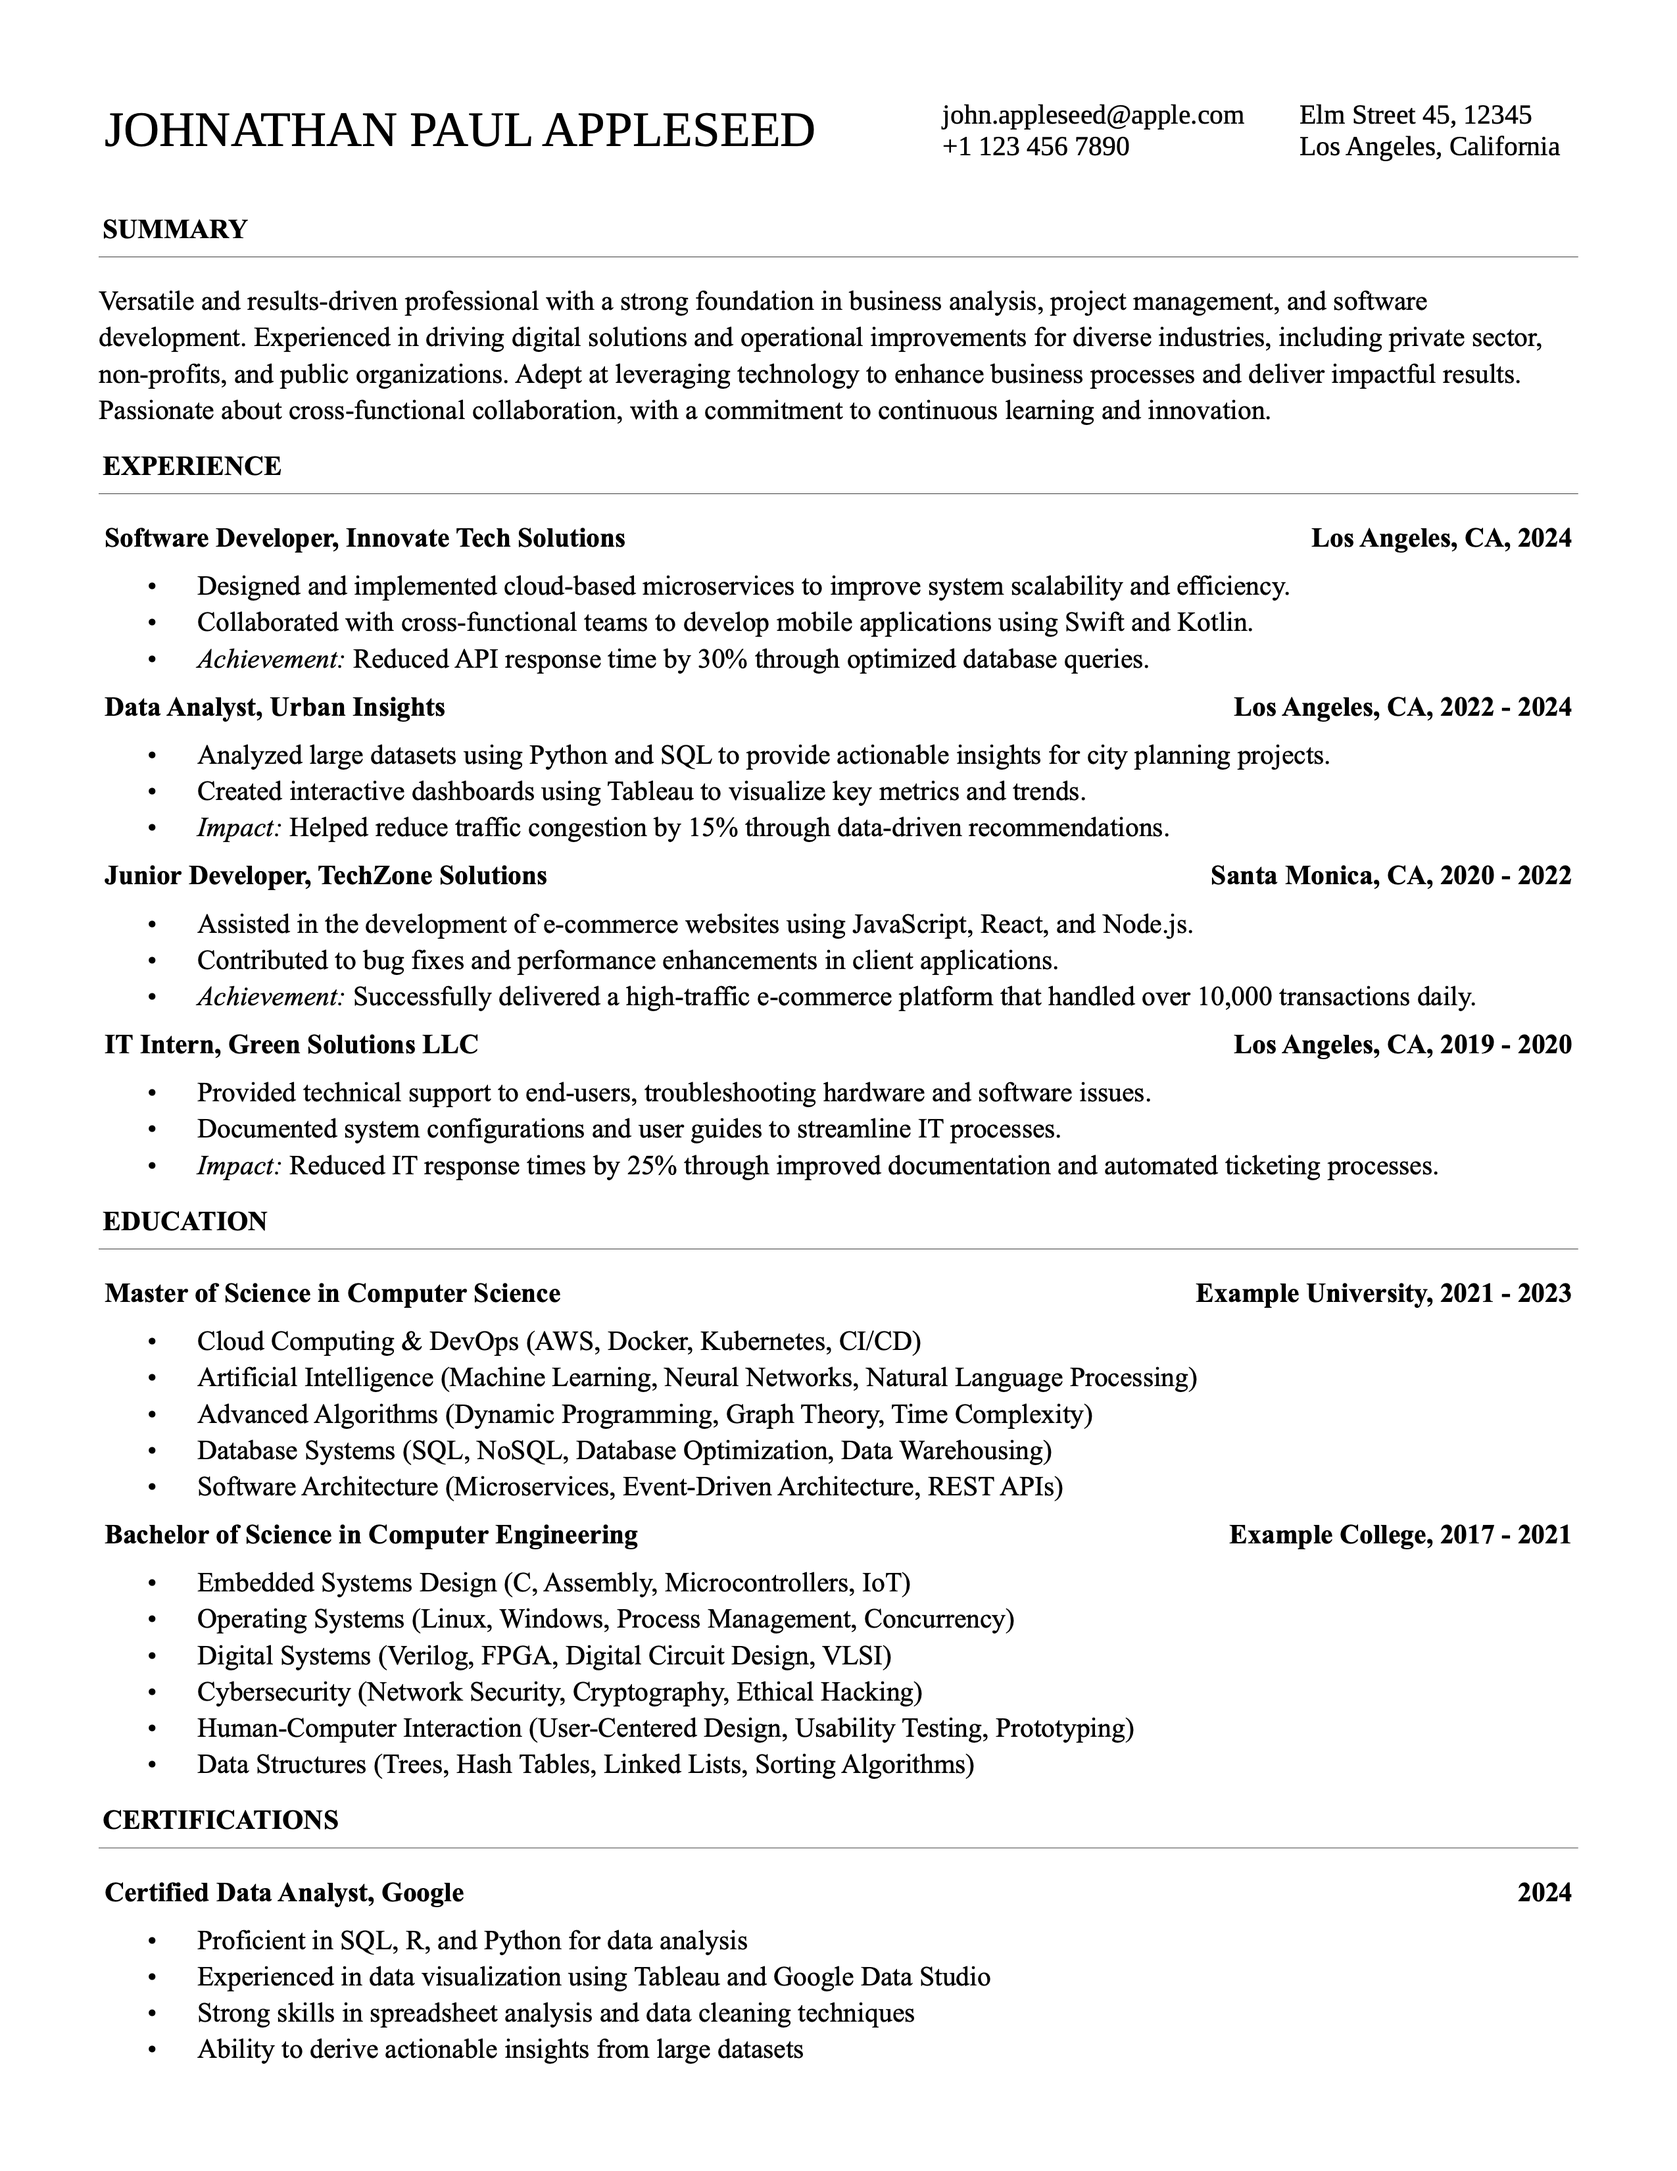
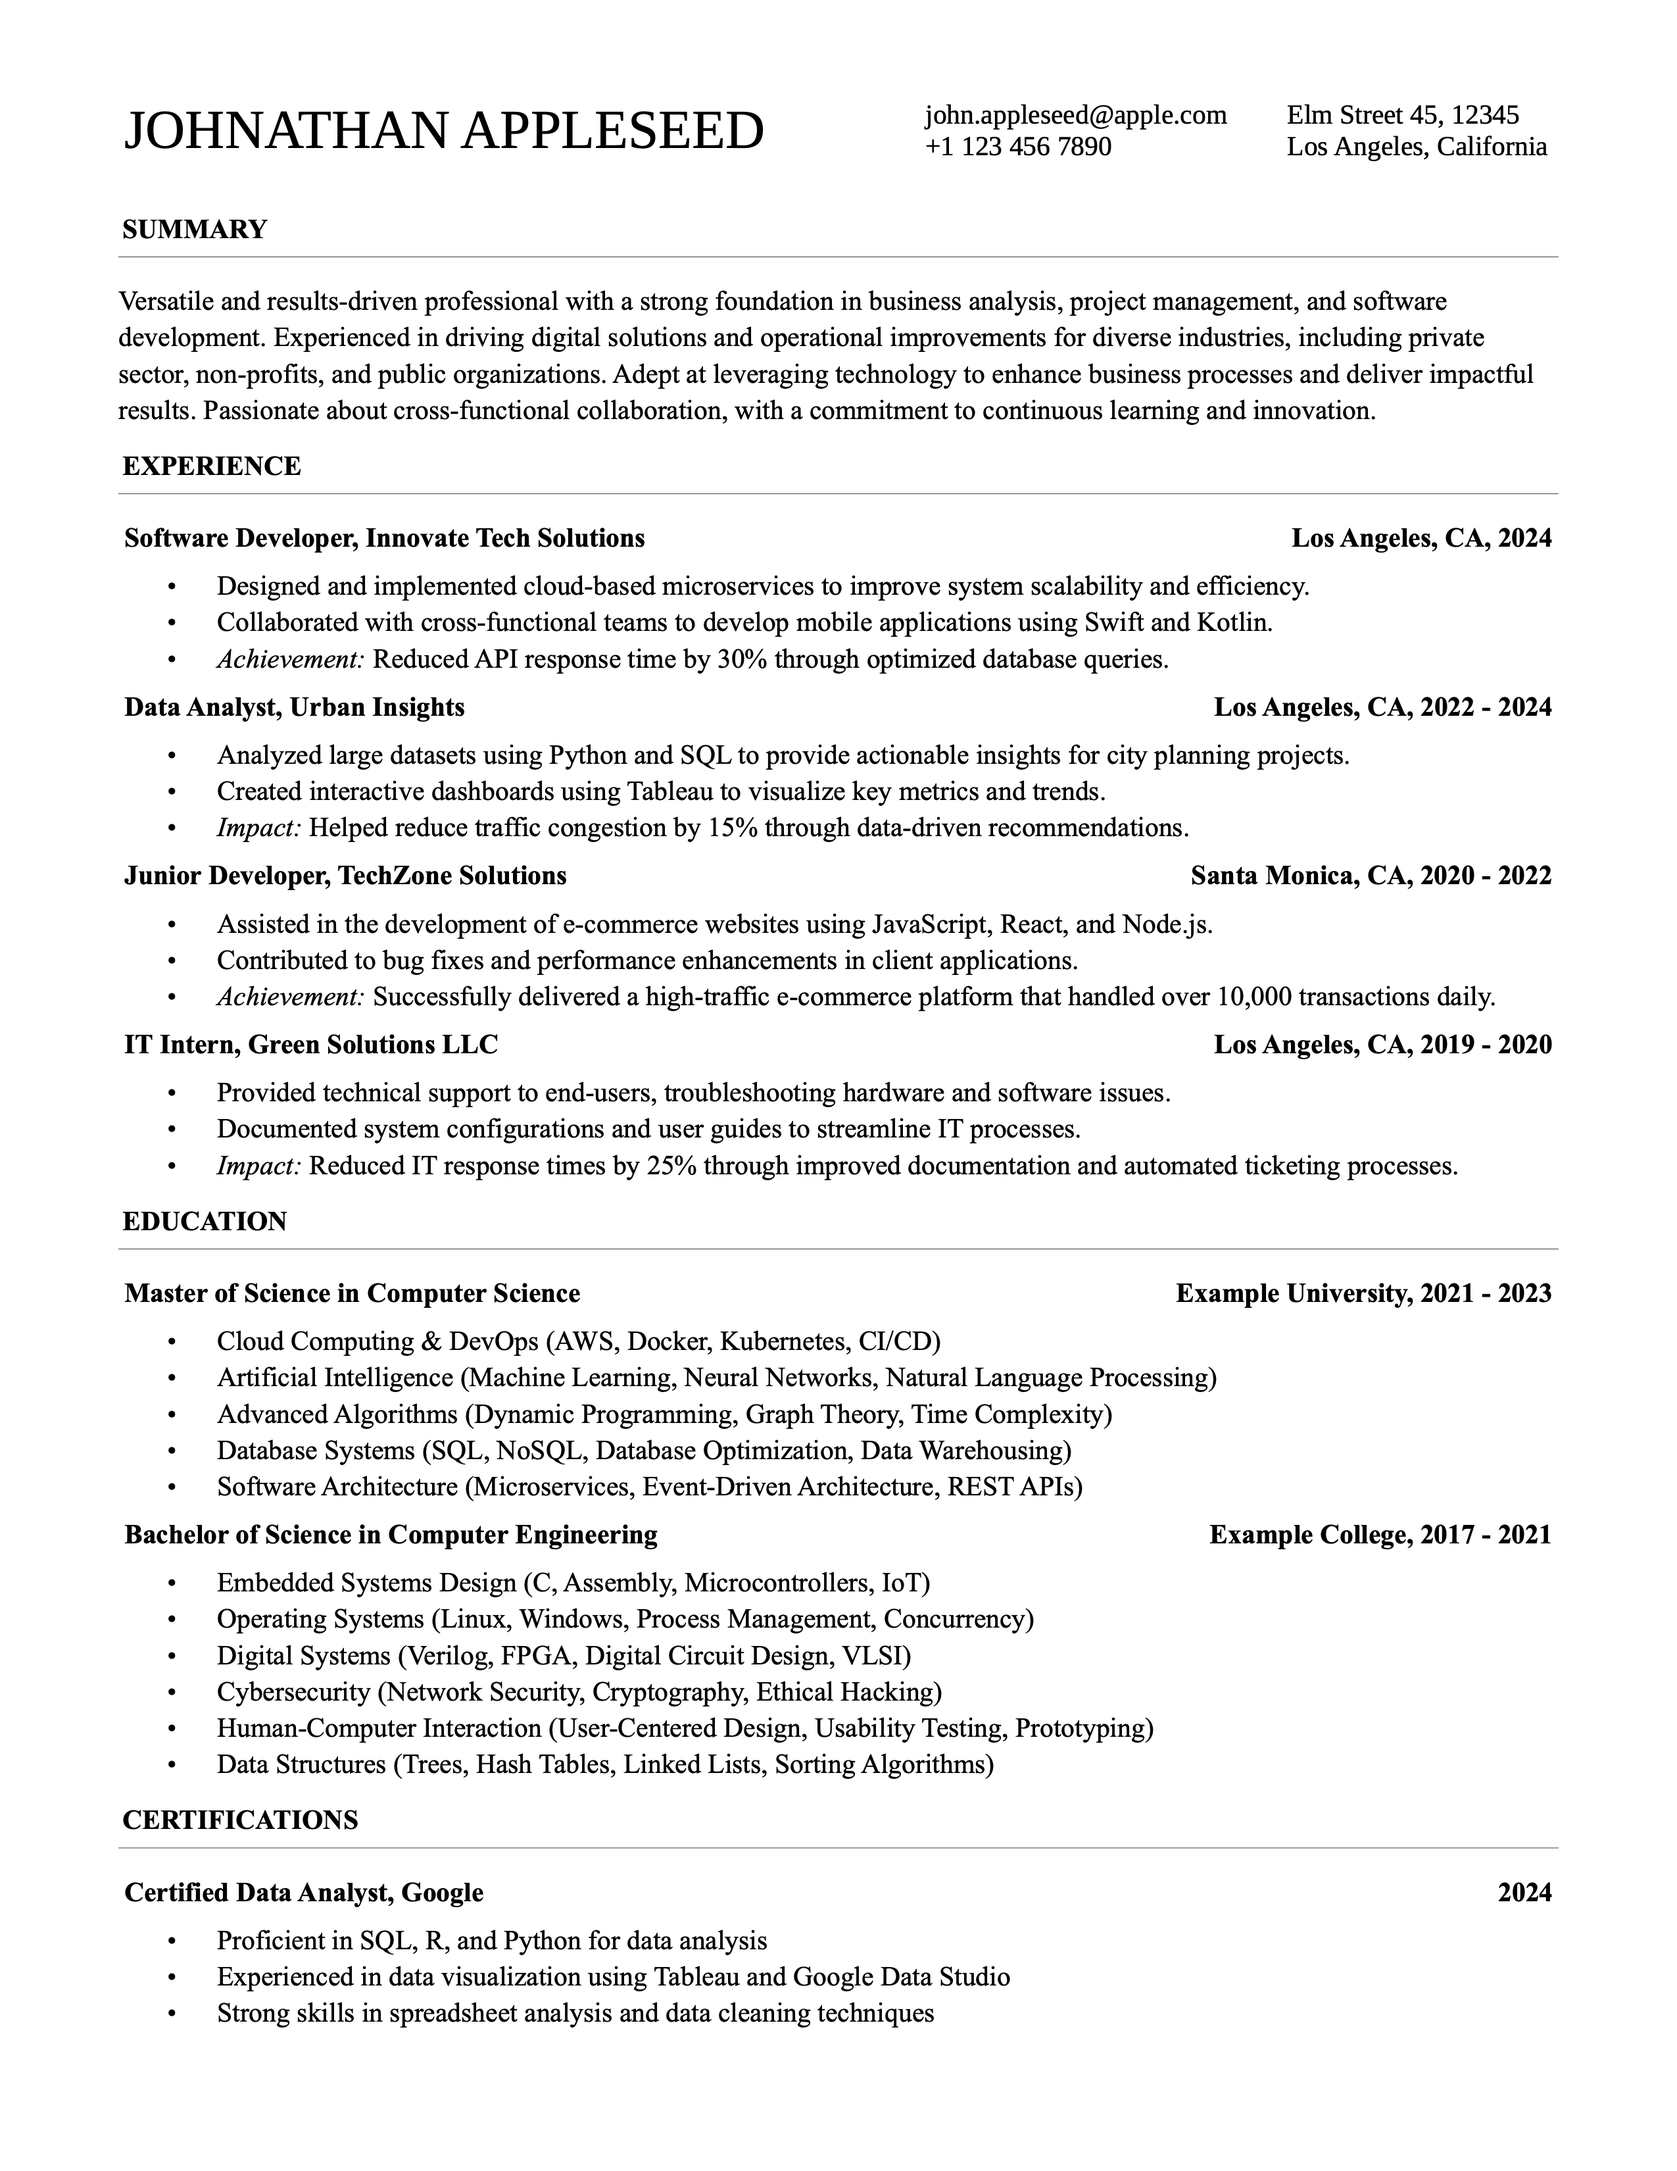
Corrected page borders in template.odt

diff --git a/input/resume/certificates.md b/input/resume/certificates.md
@@ -6,4 +6,3 @@
 - Proficient in SQL, R, and Python for data analysis
 - Experienced in data visualization using Tableau and Google Data Studio
 - Strong skills in spreadsheet analysis and data cleaning techniques
-- Ability to derive actionable insights from large datasets
